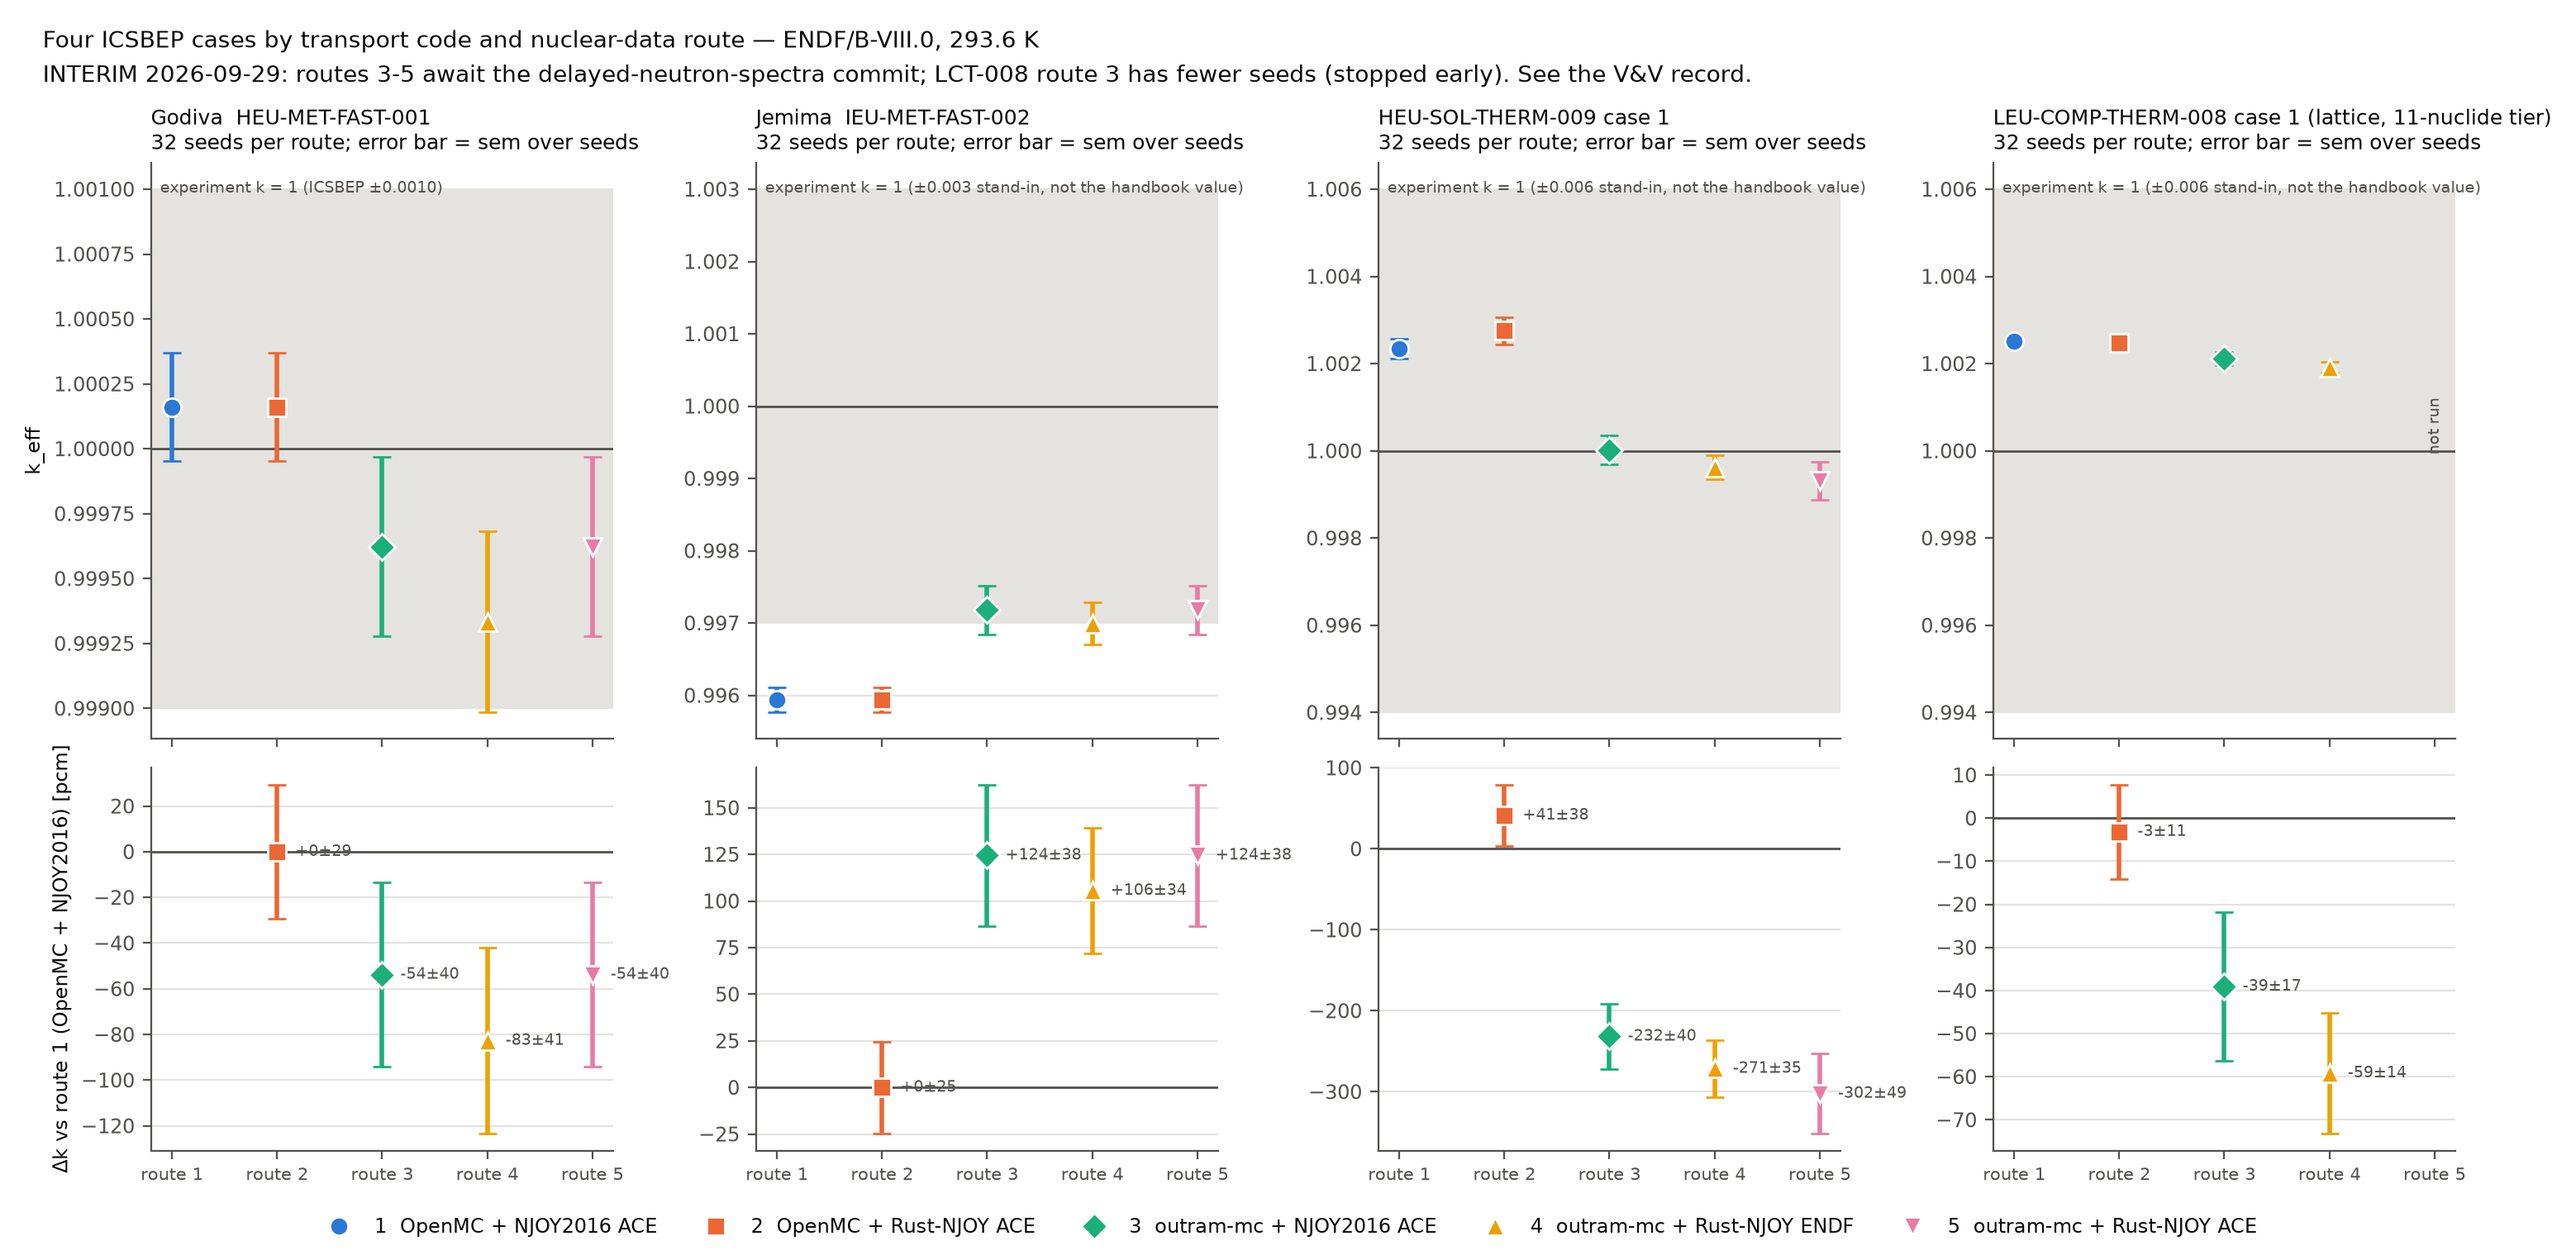
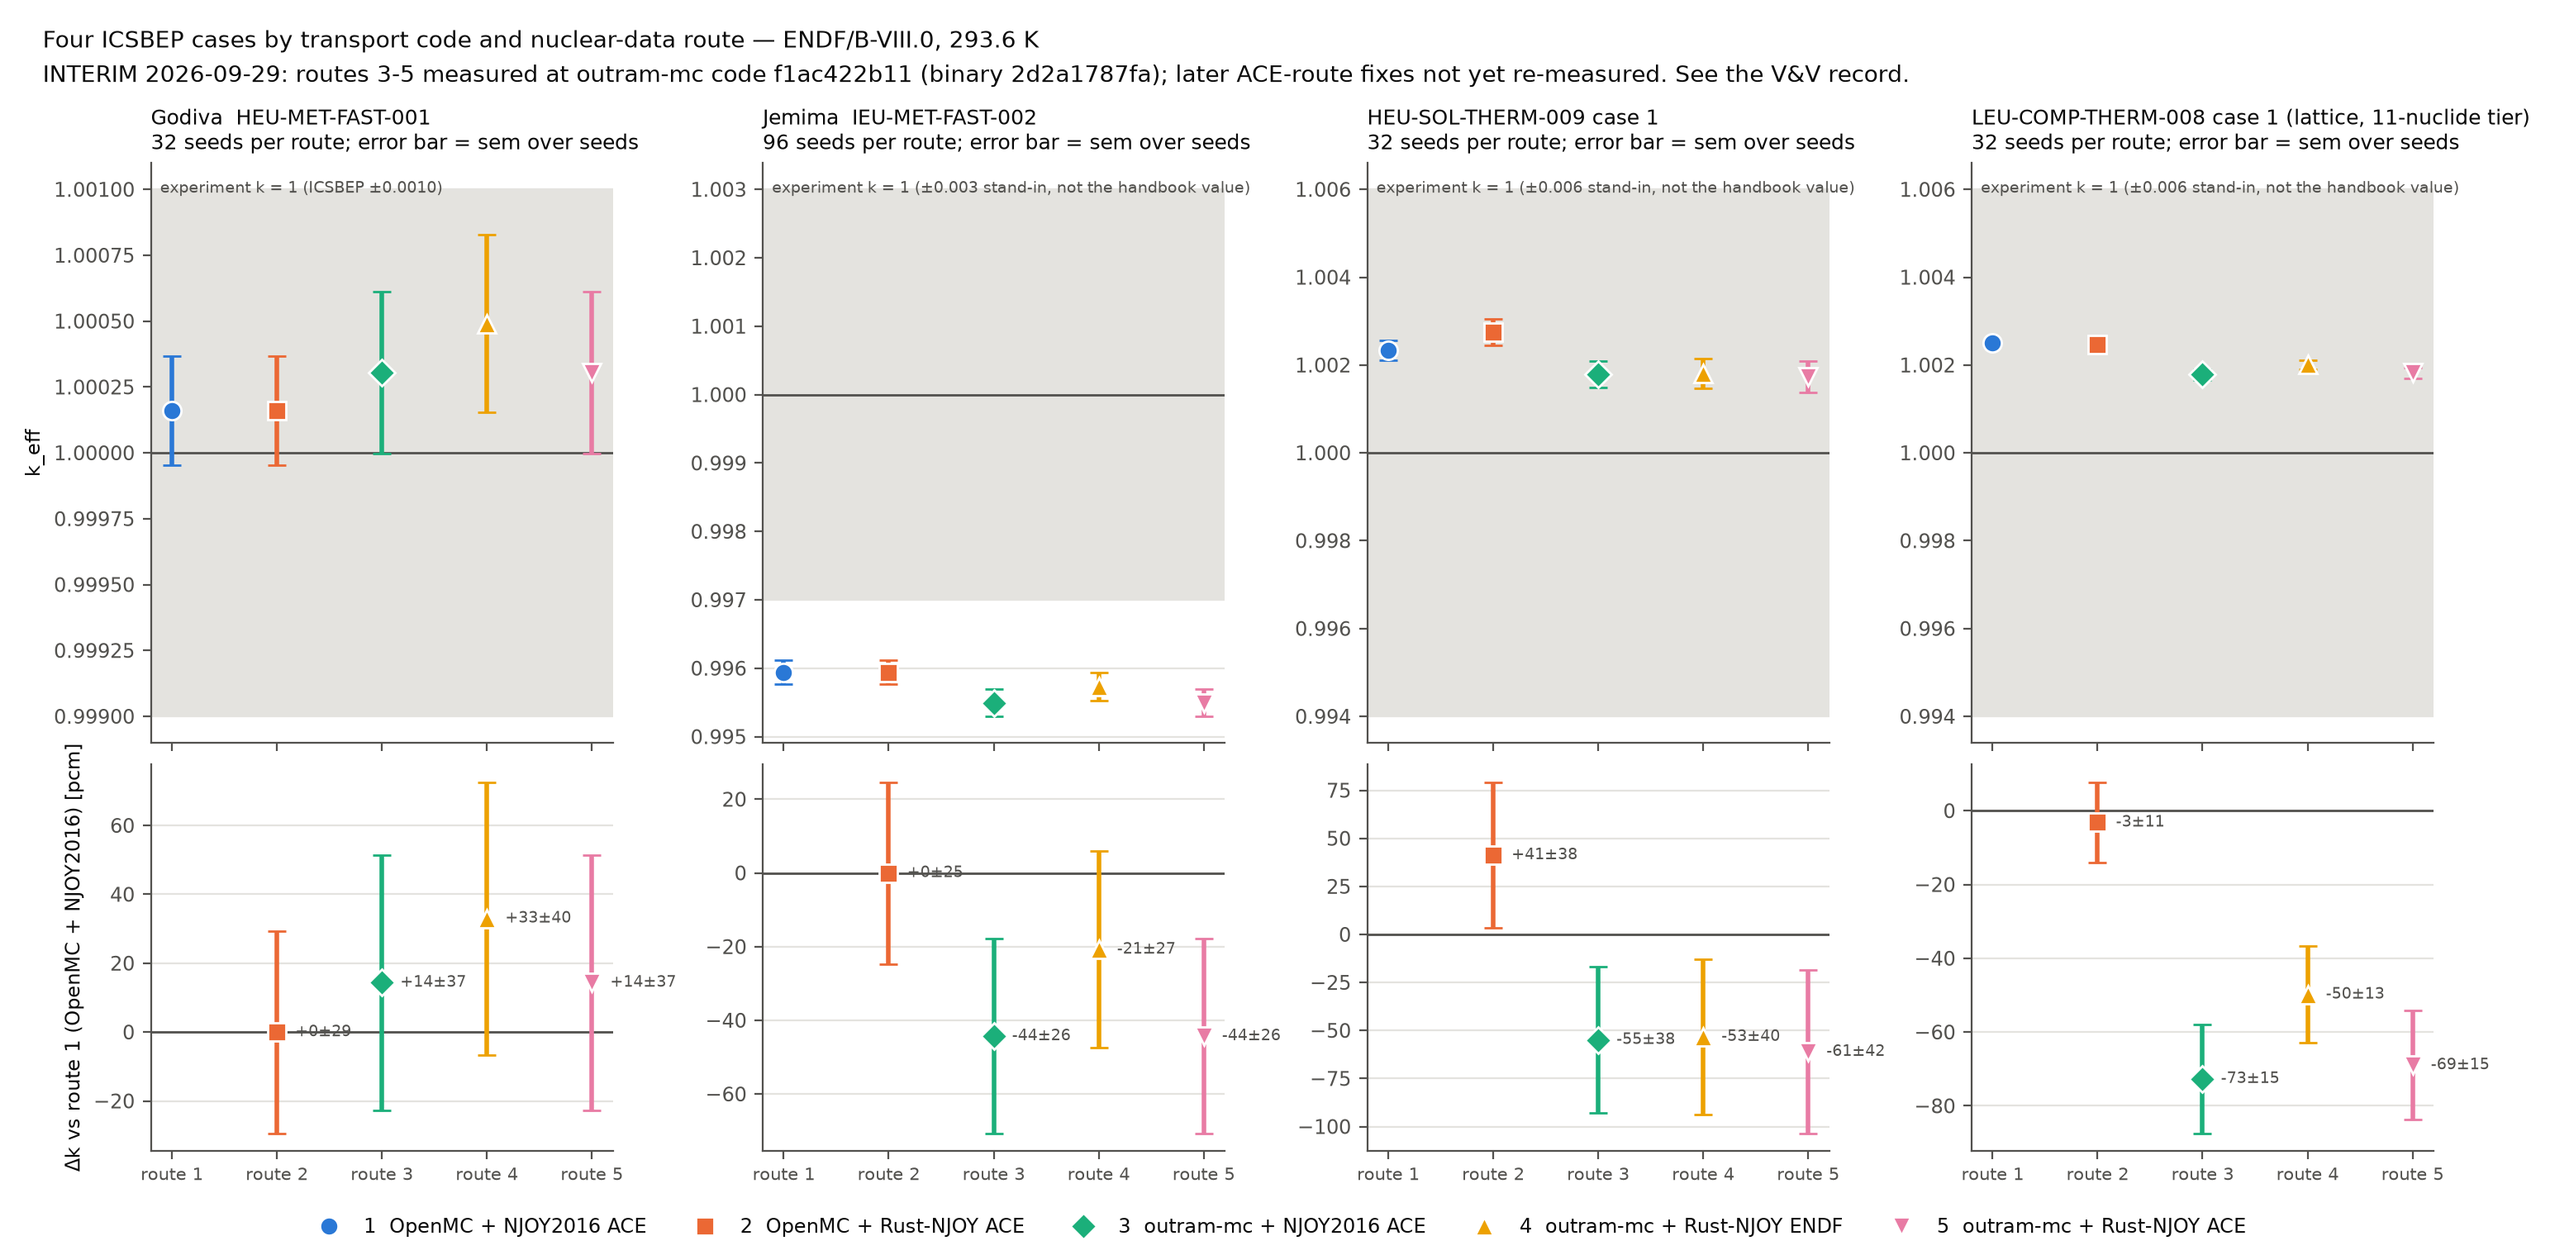
data(five_route_keff): interim summary and figure at f1ac422b11 (routes 3/4/5), Jemima 96 seeds
Claude-Session: https://claude.ai/code/session_01EXPhstVwAqRb8o6YHVQoXW

API-Usage-Since-Last-Commit: total=14179278 in=52 out=15944 cache_read=14150930 cache_write=12352 source=session-transcript
API-Usage-Session-Cumulative: total=8858916003

diff --git a/crates/outram-mc-libs/verification_and_validation/icsbep/five_route_keff/scripts/make_figure.py b/crates/outram-mc-libs/verification_and_validation/icsbep/five_route_keff/scripts/make_figure.py
@@ -161,8 +161,8 @@ def main():
                           label=lab.replace("\n", " + ")) for i, (_, lab) in enumerate(ROUTES)]
     fig.legend(handles=handles, loc="outside lower center", ncol=5, frameon=False, fontsize=8.5)
     fig.suptitle("Four ICSBEP cases by transport code and nuclear-data route — ENDF/B-VIII.0, 293.6 K\n"
-                 "INTERIM 2026-09-29: routes 3-5 await the delayed-neutron-spectra commit; "
-                 "LCT-008 route 3 has fewer seeds (stopped early). See the V&V record.",
+                 "INTERIM 2026-09-29: routes 3-5 measured at outram-mc code f1ac422b11 (binary 2d2a1787fa); "
+                 "later ACE-route fixes not yet re-measured. See the V&V record.",
                  fontsize=10, x=0.01, ha="left", linespacing=1.5)
     (OUT / "figures").mkdir(parents=True, exist_ok=True)
     fig.savefig(OUT / "figures" / "five_route_keff.png", dpi=200, metadata={"Software": None},

diff --git a/crates/outram-mc-libs/verification_and_validation/icsbep/five_route_keff/data/summary_keff.md b/crates/outram-mc-libs/verification_and_validation/icsbep/five_route_keff/data/summary_keff.md
@@ -2,20 +2,21 @@
 |---|---|---|---|---|---|---|
 | godiva | route1 | 32 | 1.00016 ± 0.00021 | 118 | +16 ± 21 | reference |
 | godiva | route2 | 32 | 1.00016 ± 0.00021 | 118 | +16 ± 21 | +0 ± 29 (+0.0σ) |
-| godiva | route3 | 32 | 0.99962 ± 0.00035 | 195 | -38 ± 35 | -54 ± 40 (-1.3σ) |
-| godiva | route4 | 32 | 0.99933 ± 0.00035 | 197 | -67 ± 35 | -83 ± 41 (-2.0σ) |
-| godiva | route5 | 32 | 0.99962 ± 0.00035 | 195 | -38 ± 35 | -54 ± 40 (-1.3σ) |
+| godiva | route3 | 32 | 1.00030 ± 0.00031 | 174 | +30 ± 31 | +14 ± 37 (+0.4σ) |
+| godiva | route4 | 32 | 1.00049 ± 0.00034 | 191 | +49 ± 34 | +33 ± 40 (+0.8σ) |
+| godiva | route5 | 32 | 1.00030 ± 0.00031 | 174 | +30 ± 31 | +14 ± 37 (+0.4σ) |
 | jemima | route1 | 32 | 0.99594 ± 0.00017 | 99 | -406 ± 17 | reference |
 | jemima | route2 | 32 | 0.99594 ± 0.00017 | 99 | -406 ± 17 | +0 ± 25 (+0.0σ) |
-| jemima | route3 | 32 | 0.99718 ± 0.00034 | 191 | -282 ± 34 | +124 ± 38 (+3.3σ) |
-| jemima | route4 | 32 | 0.99699 ± 0.00029 | 163 | -301 ± 29 | +106 ± 34 (+3.1σ) |
-| jemima | route5 | 32 | 0.99718 ± 0.00034 | 191 | -282 ± 34 | +124 ± 38 (+3.3σ) |
+| jemima | route3 | 96 | 0.99549 ± 0.00020 | 194 | -451 ± 20 | -44 ± 26 (-1.7σ) |
+| jemima | route4 | 96 | 0.99573 ± 0.00020 | 197 | -427 ± 20 | -21 ± 27 (-0.8σ) |
+| jemima | route5 | 96 | 0.99549 ± 0.00020 | 194 | -451 ± 20 | -44 ± 26 (-1.7σ) |
 | hst009 | route1 | 32 | 1.00234 ± 0.00022 | 127 | +234 ± 22 | reference |
 | hst009 | route2 | 32 | 1.00275 ± 0.00031 | 174 | +275 ± 31 | +41 ± 38 (+1.1σ) |
-| hst009 | route3 | 32 | 1.00002 ± 0.00033 | 189 | +2 ± 33 | -232 ± 40 (-5.8σ) |
-| hst009 | route4 | 32 | 0.99962 ± 0.00027 | 152 | -38 ± 27 | -271 ± 35 (-7.8σ) |
-| hst009 | route5 | 32 | 0.99931 ± 0.00044 | 248 | -69 ± 44 | -302 ± 49 (-6.1σ) |
+| hst009 | route3 | 32 | 1.00179 ± 0.00031 | 174 | +179 ± 31 | -55 ± 38 (-1.4σ) |
+| hst009 | route4 | 32 | 1.00181 ± 0.00034 | 190 | +181 ± 34 | -53 ± 40 (-1.3σ) |
+| hst009 | route5 | 32 | 1.00173 ± 0.00036 | 204 | +173 ± 36 | -61 ± 42 (-1.4σ) |
 | lct008 | route1 | 32 | 1.00251 ± 0.00007 | 42 | +251 ± 7 | reference |
 | lct008 | route2 | 32 | 1.00248 ± 0.00008 | 45 | +248 ± 8 | -3 ± 11 (-0.3σ) |
-| lct008 | route3 | 15 | 1.00212 ± 0.00015 | 60 | +212 ± 15 | -39 ± 17 (-2.3σ) |
-| lct008 | route4 | 32 | 1.00192 ± 0.00012 | 67 | +192 ± 12 | -59 ± 14 (-4.2σ) |
+| lct008 | route3 | 32 | 1.00178 ± 0.00013 | 72 | +178 ± 13 | -73 ± 15 (-4.9σ) |
+| lct008 | route4 | 32 | 1.00201 ± 0.00011 | 60 | +201 ± 11 | -50 ± 13 (-3.8σ) |
+| lct008 | route5 | 32 | 1.00182 ± 0.00013 | 72 | +182 ± 13 | -69 ± 15 (-4.7σ) |
